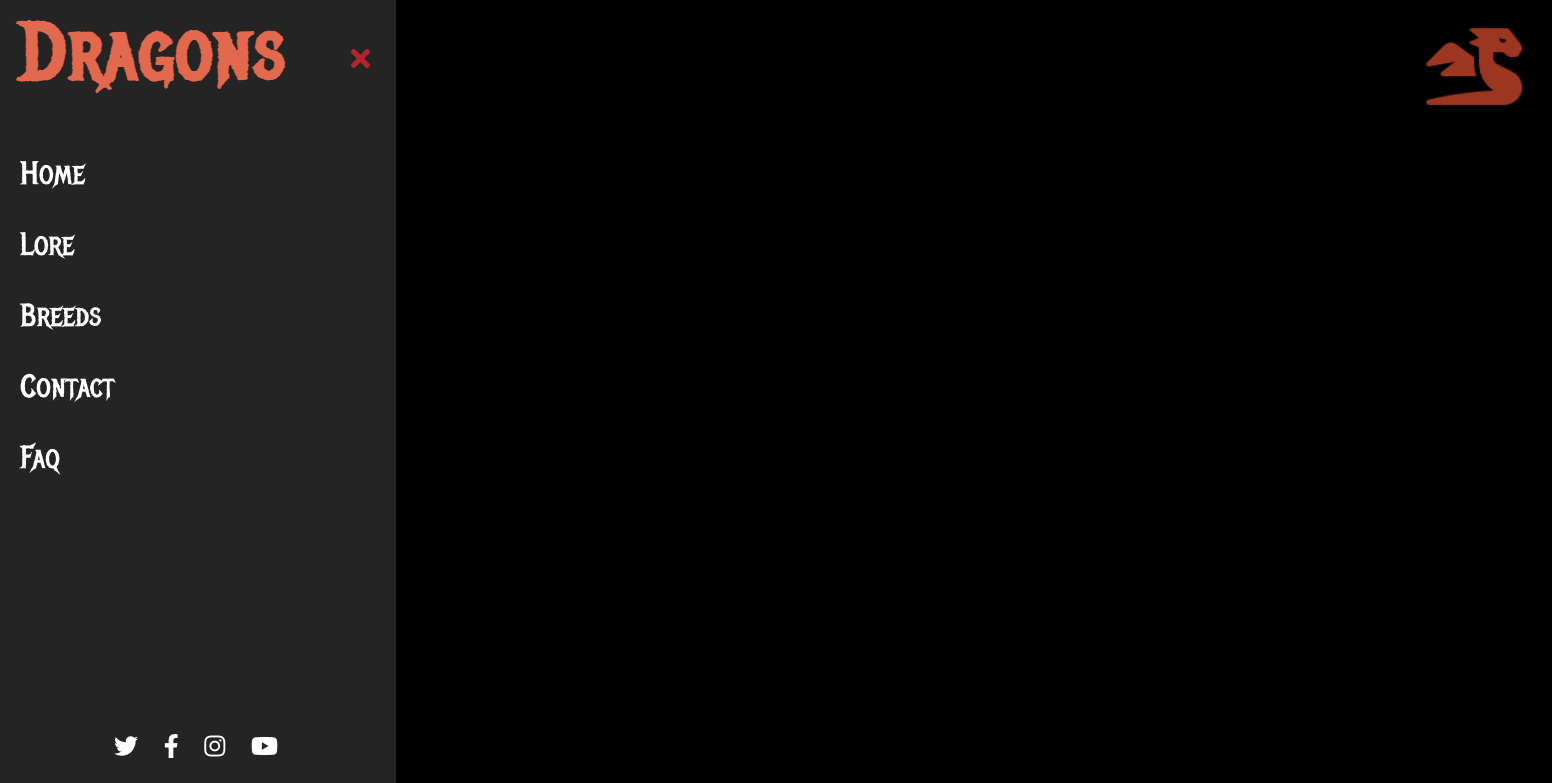
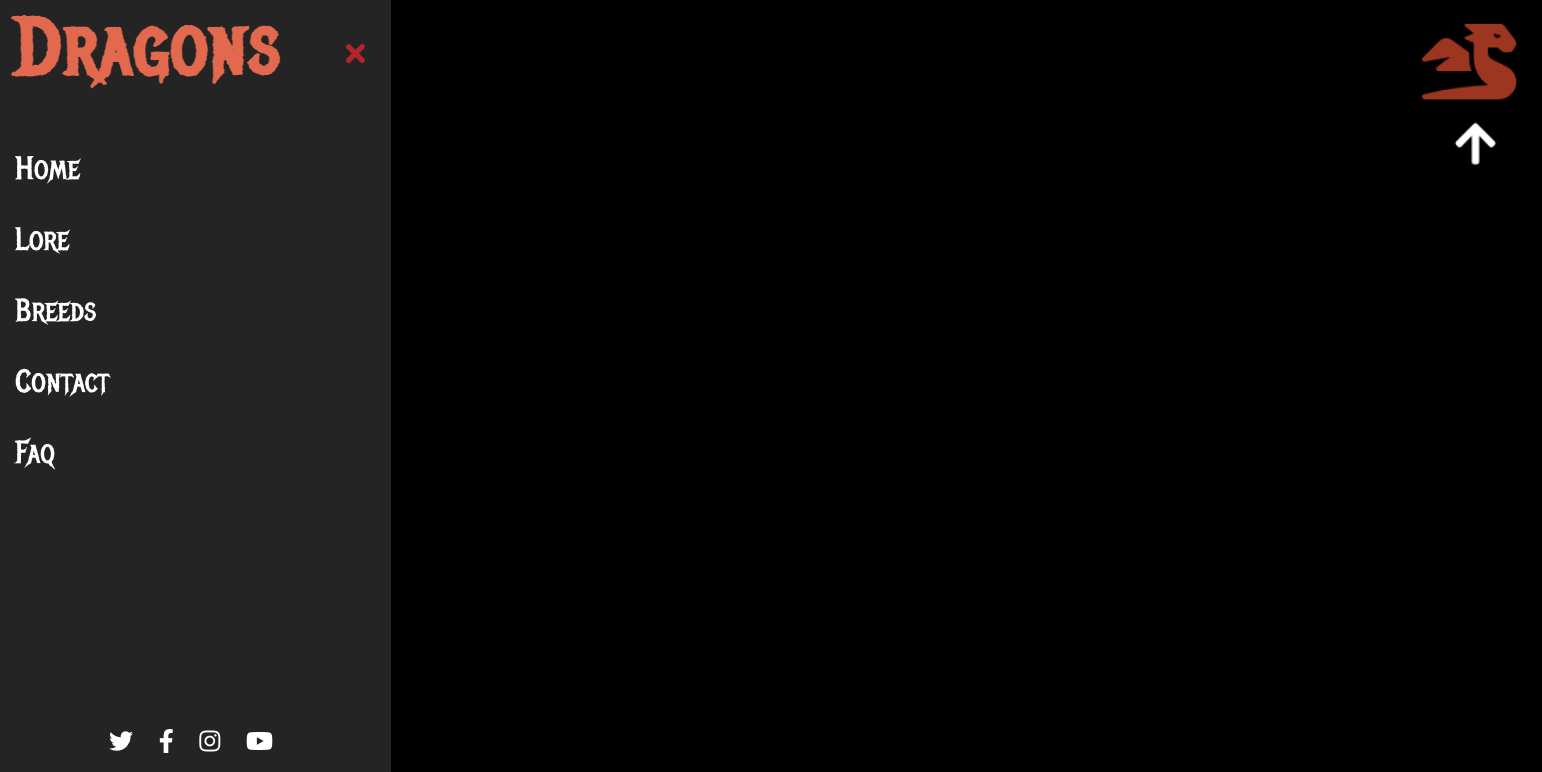
Updated screenshots for README

diff --git a/index.html b/index.html
@@ -10,17 +10,25 @@
 </head>
 
 <body>
+
   <button class="dragon-toggle">
     <i class="fas fa-dragon"></i>
   </button>
-  <button class="arrow"><i class="fa fa-arrow-up" aria-hidden="true"></i></button>
+
+  <button class="arrow">
+    <i class="fa fa-arrow-up" aria-hidden="true"></i>
+  </button>
+
   <aside class="sidebar">
     <div class="sidebar-header">
-      <a href="index.html"><h1 class="dragon-header">Dragons</h1></a>
+      <a href="index.html">
+        <h1 class="dragon-header">Dragons</h1>
+      </a>
       <button class="close-btn">
         <i class="fas fa-times"></i>
       </button>
     </div>
+    
     <!-- Links -->
     <ul class="links">
       <li><a href="index.html">home</a></li>
